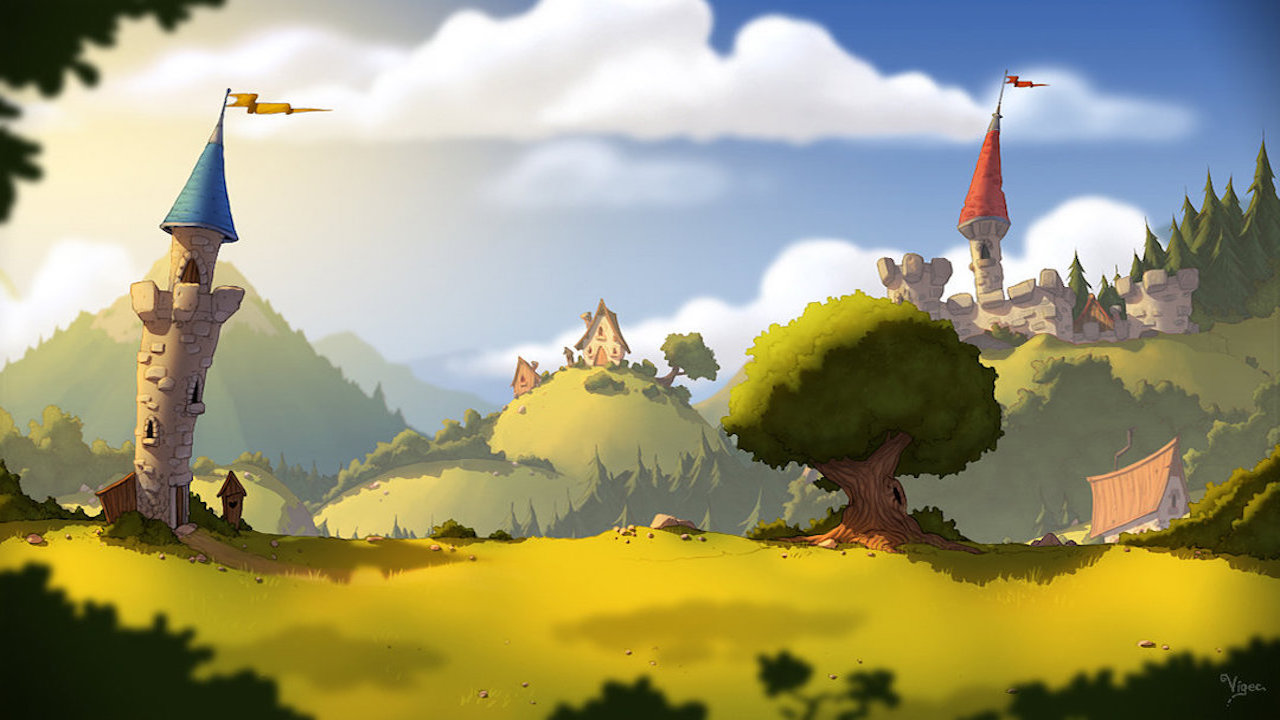
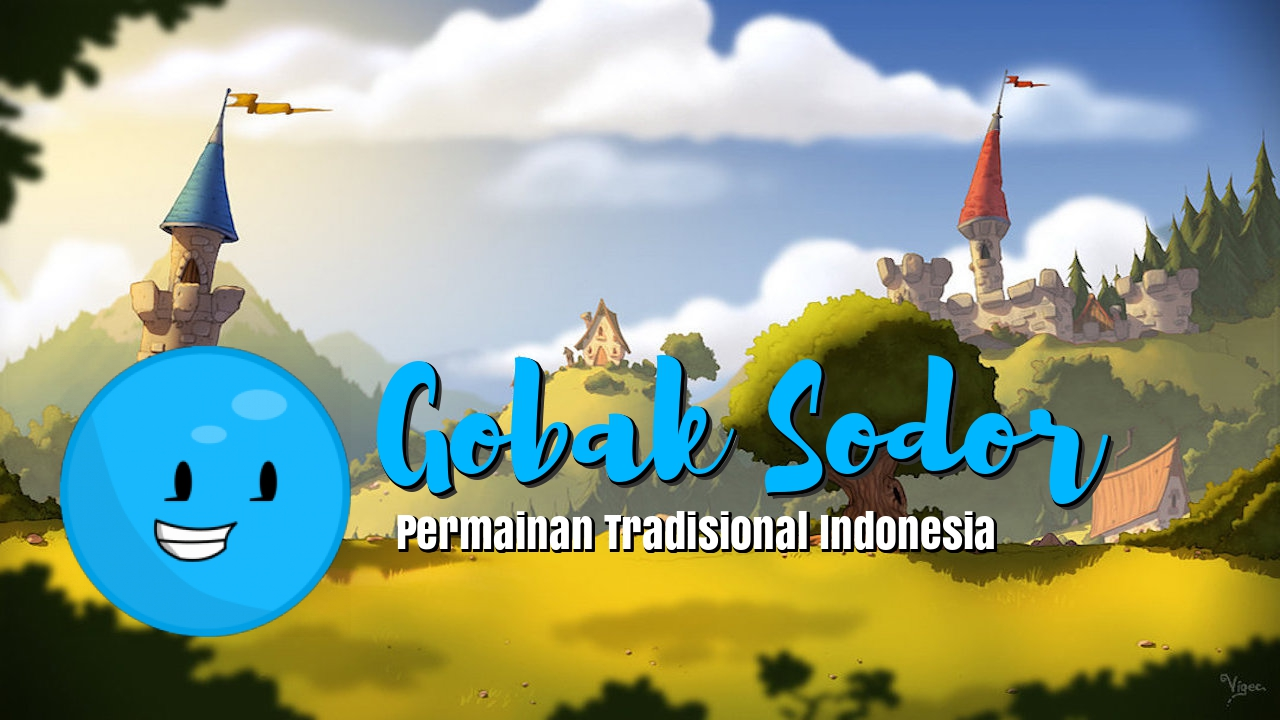
v1_finalfinal_music_ball

Changed region(s): [[0.0312, 0.4583, 0.875, 0.8861]]

diff --git a/src/game/Game.java b/src/game/Game.java
@@ -44,7 +44,7 @@ public class Game extends JPanel {
   public Game() throws FileNotFoundException {
 
     try {
-      imageLogo = ImageIO.read(new File("./images/GobakSodor.png"));
+      imageLogo = ImageIO.read(new File("./images/GobakSodor.jpg"));
       imageBall = ImageIO.read(new File("./images/Ball.png"));
     } catch (IOException ex) {
       System.out.println(ex.getMessage());
